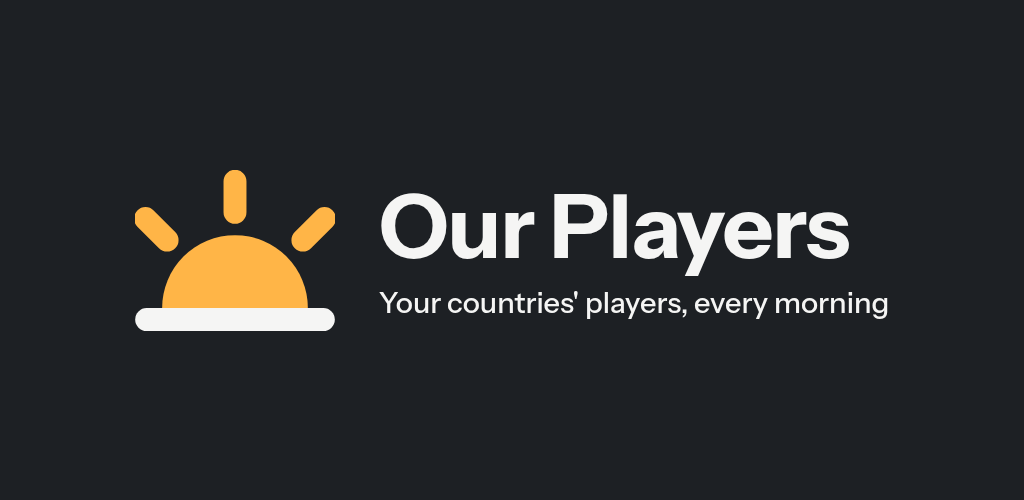
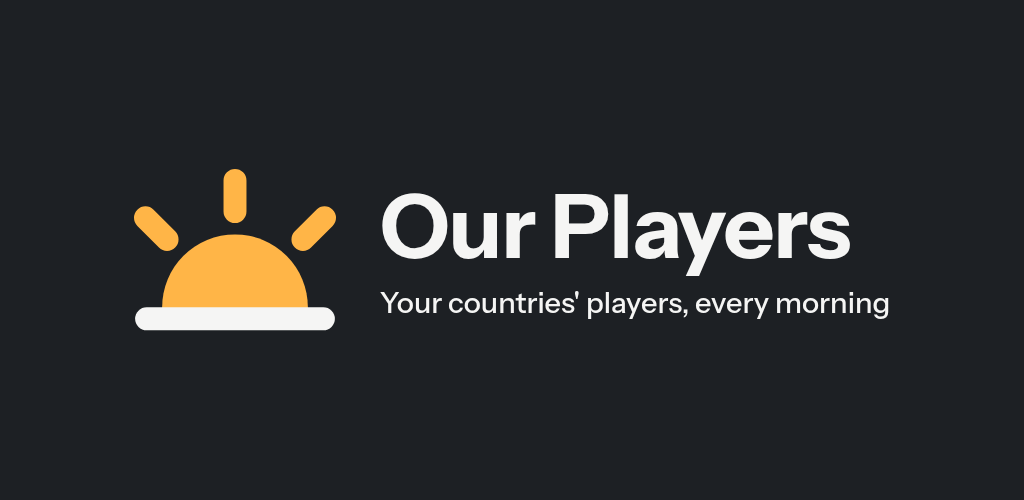
fix: stop clipping the feature graphic's rays
The viewBox was the horizon bar's box, so it cut the side rays' round caps
flat and the top ray's by half a unit. It now includes the caps. Also drops
a leftover debug log.

diff --git a/apps/mobile/scripts/store-graphics.ts b/apps/mobile/scripts/store-graphics.ts
@@ -18,10 +18,10 @@ const font = (weight: number, file: string) => {
   return `@font-face{font-family:Instrument Sans;font-weight:${weight};src:url(data:font/ttf;base64,${ttf.toString('base64')})}`;
 };
 
-// The mark's own box (see the coordinates in the SVG), so it sits on the layout without the icon's padding.
+// The mark's own box, round ray caps included, so it sits on the layout without the icon's padding.
 const mark = readFileSync(resolve('assets/icon.svg'), 'utf8')
   .replace(/<rect id="field"[^>]*\/>/, '')
-  .replace('viewBox="0 0 1024 1024"', 'viewBox="290 333 444 358" width="200" height="161"');
+  .replace('viewBox="0 0 1024 1024"', 'viewBox="287.5 332.5 449 358.5" width="202" height="161.3"');
 
 const FEATURE = `<!doctype html><style>
 ${font(700, '700Bold/InstrumentSans_700Bold.ttf')}
@@ -69,7 +69,6 @@ async function main(): Promise<void> {
       )
         throw new Error(`outside the central 80%: ${JSON.stringify(box)}`);
     }
-    console.log(JSON.stringify(boxes));
     await page.screenshot({ path: resolve(OUT, 'feature-graphic.png') });
     console.log(resolve(OUT, 'feature-graphic.png'));
   } finally {
